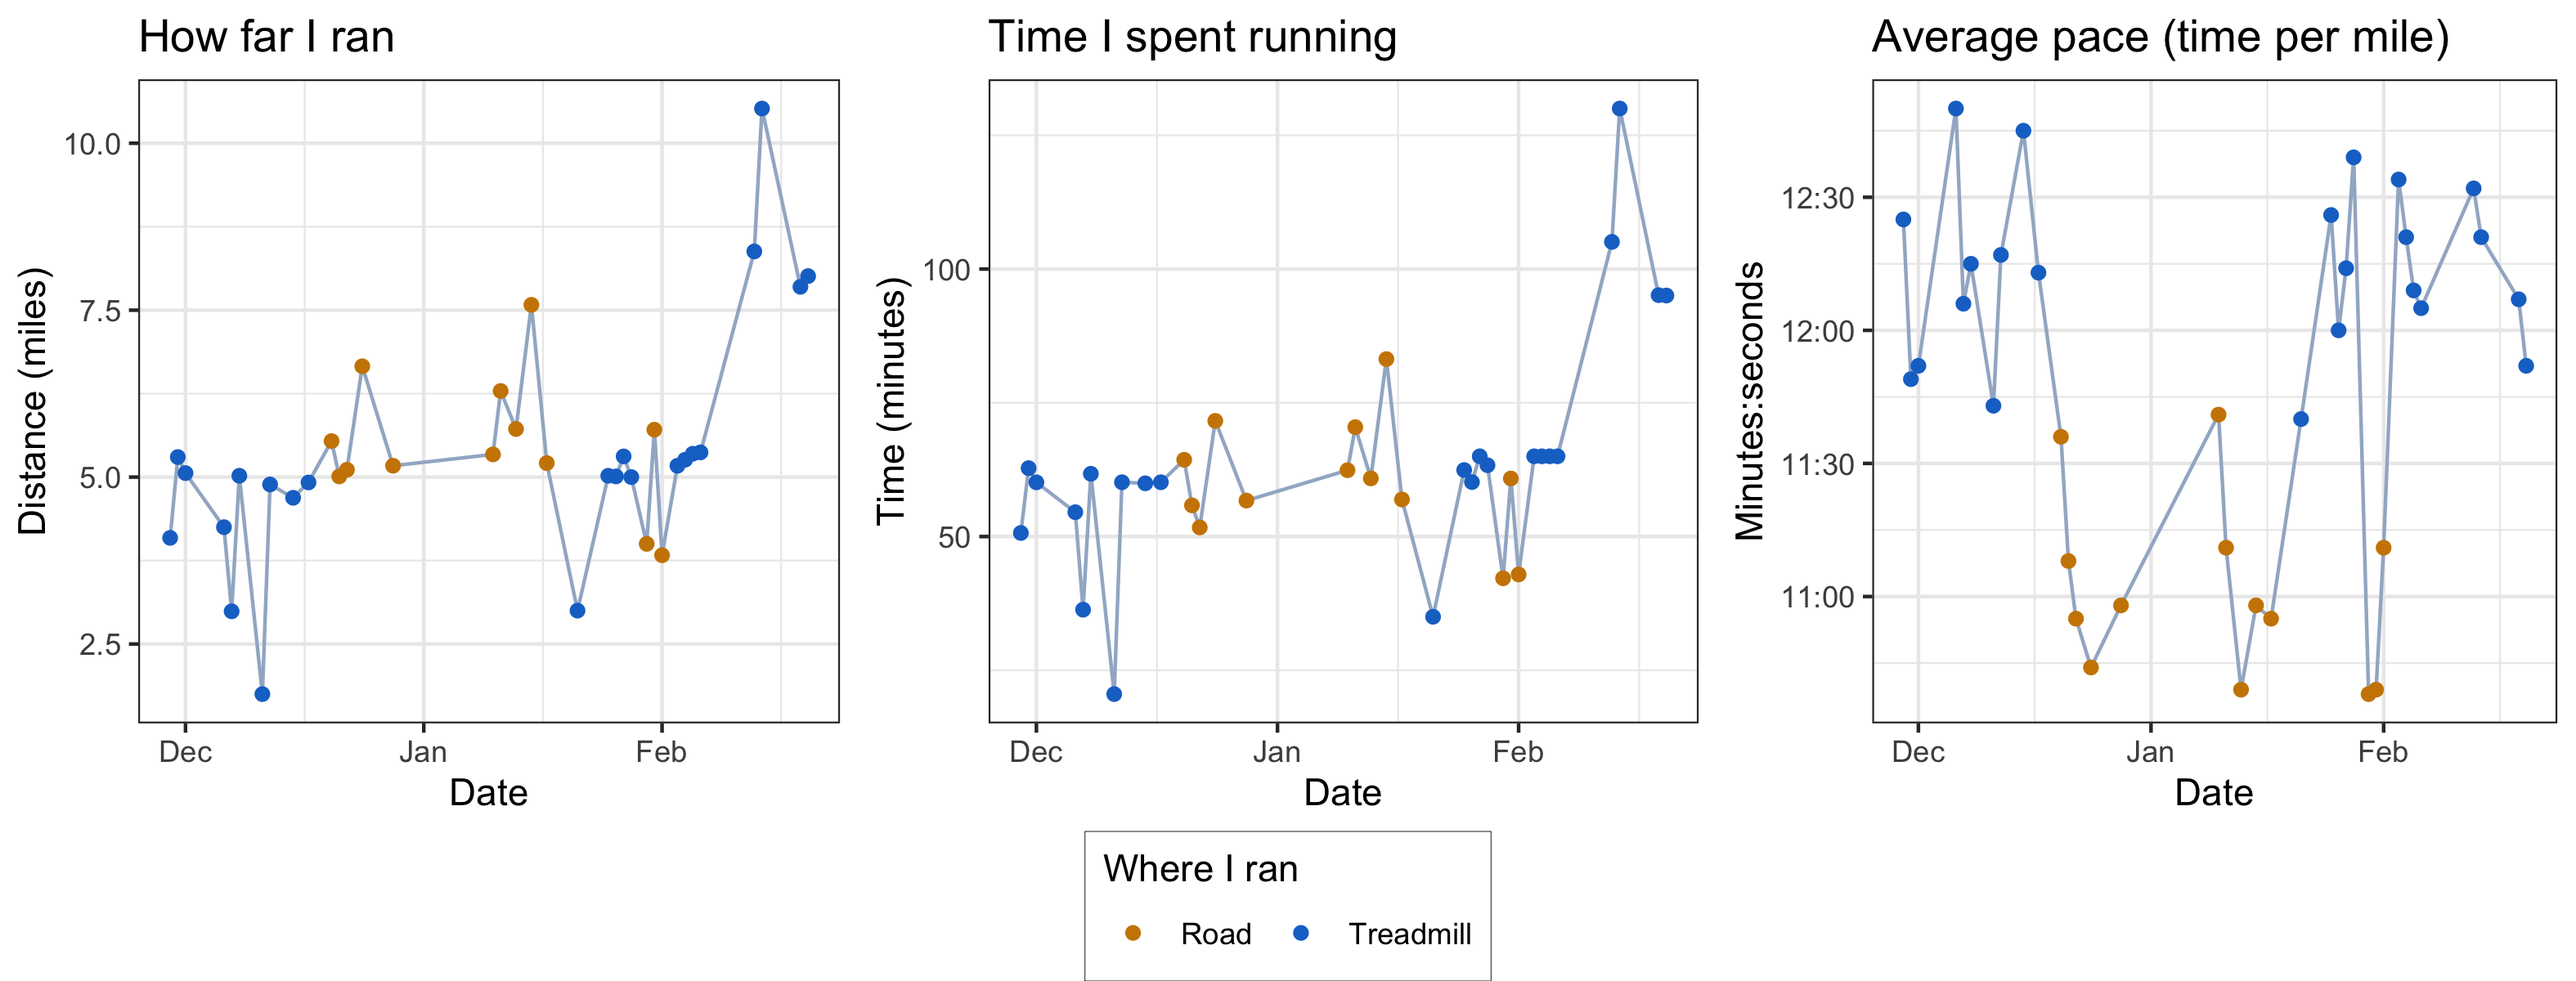
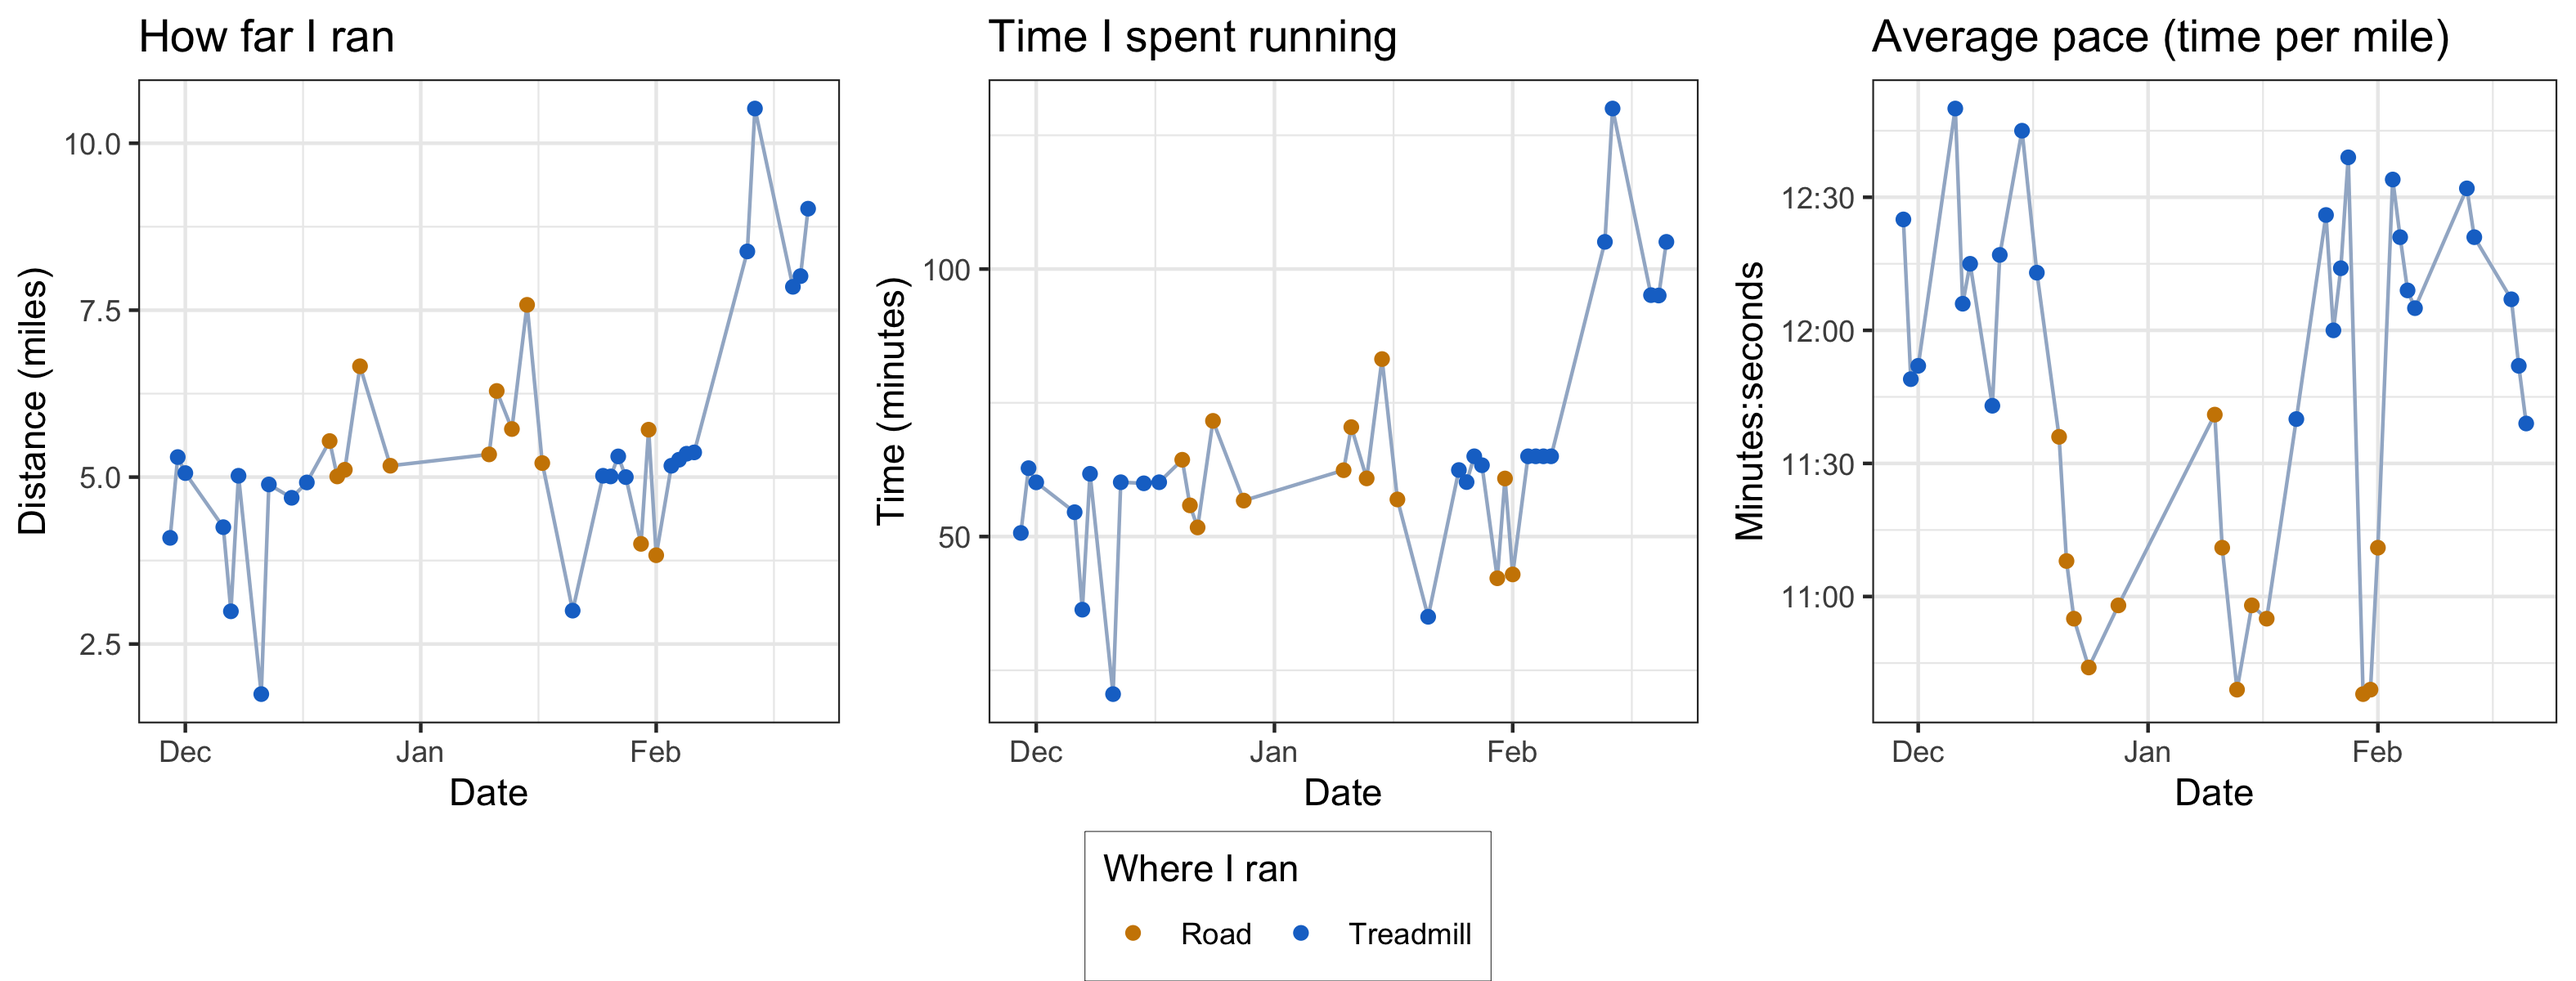
2/22/22

diff --git a/README.md b/README.md
@@ -27,4 +27,4 @@ Total miles since 11/29/21:
 sum(runningData$Miles)
 ```
 
-    ## [1] 193.38
+    ## [1] 202.4
